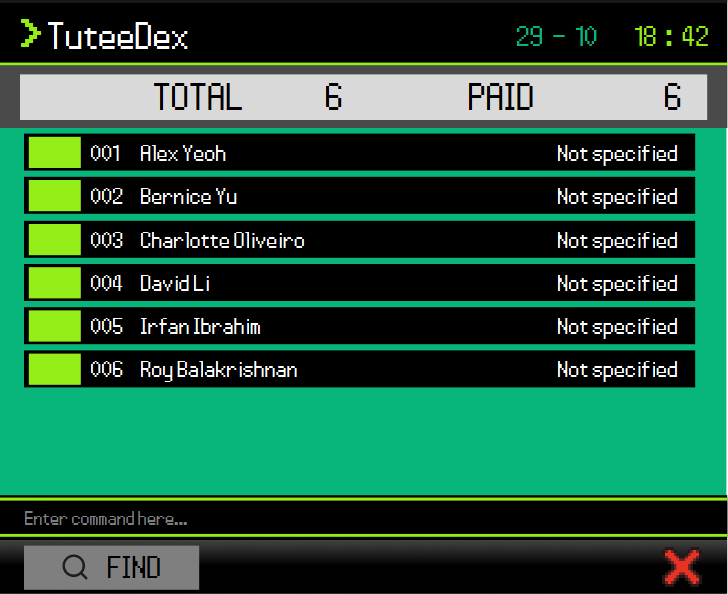
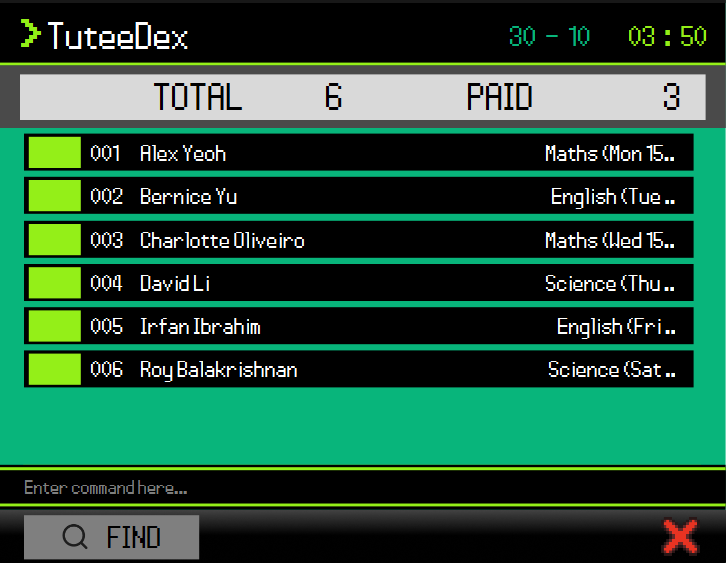
Add scheduled lessons to starter profiles
First-run profiles lacked subjects even though Add requires them,
leaving the starter screen unable to demonstrate tutoring features.

Give the samples weekly lessons, mixed balances, tags and notes.
Refresh the guide screenshot and explain legacy missing subjects.
Verify first-run rendering, serialization and existing data loading.

Fixes #195

diff --git a/src/test/java/seedu/address/ui/MainAppStartupTest.java b/src/test/java/seedu/address/ui/MainAppStartupTest.java
@@ -27,6 +27,10 @@ import javafx.scene.layout.VBox;
 import javafx.stage.Stage;
 import javafx.stage.Window;
 import seedu.address.MainApp;
+import seedu.address.model.AddressBook;
+import seedu.address.model.util.SampleDataUtil;
+import seedu.address.storage.JsonAddressBookStorage;
+import seedu.address.testutil.PersonBuilder;
 
 /** Exercises the real startup wiring without reading or writing the user's data. */
 public class MainAppStartupTest {
@@ -35,6 +39,27 @@ public class MainAppStartupTest {
 
     @Test
     public void startup_helpAndExit_useApplicationServicesAndSavePreferences() throws Exception {
+        runStartup("sample");
+    }
+
+    @Test
+    public void startup_existingEmptyBook_doesNotInjectSamples() throws Exception {
+        new JsonAddressBookStorage(testFolder.resolve("data/addressbook.json")).saveAddressBook(new AddressBook());
+        runStartup("empty");
+    }
+
+    @Test
+    public void startup_legacyBook_preservesMissingSubjectsAndFile() throws Exception {
+        AddressBook legacy = new AddressBook();
+        legacy.addPerson(new PersonBuilder().build());
+        Path file = testFolder.resolve("data/addressbook.json");
+        new JsonAddressBookStorage(file).saveAddressBook(legacy);
+        String original = Files.readString(file);
+        runStartup("legacy");
+        assertEquals(original, Files.readString(file));
+    }
+
+    private void runStartup(String scenario) throws Exception {
         List<String> command = new ArrayList<>();
         command.add(Path.of(System.getProperty("java.home"), "bin", "java").toString());
         // Append child startup coverage to the same report as the parent test worker.
@@ -45,7 +70,7 @@ public class MainAppStartupTest {
                     match -> Matcher.quoteReplacement(Path.of(match.group()).toAbsolutePath().toString())))
                 .forEach(command::add);
         command.addAll(List.of("-ea", "-cp", System.getProperty("test.runtimeClasspath",
-                System.getProperty("java.class.path")), MainAppStartupTest.class.getName()));
+                System.getProperty("java.class.path")), MainAppStartupTest.class.getName(), scenario));
         Path log = testFolder.resolve("startup.log");
         Process process = new ProcessBuilder(command).directory(testFolder.toFile())
                 .redirectErrorStream(true).redirectOutput(log.toFile()).start();
@@ -73,6 +98,34 @@ public class MainAppStartupTest {
             assertTrue(primaryStage.isShowing());
             assertEquals("TuteeDex", primaryStage.getTitle());
             TextField input = (TextField) primaryStage.getScene().lookup("#commandTextField");
+            String scenario = getParameters().getRaw().get(0);
+            if (scenario.equals("sample")) {
+                assertEquals(SampleDataUtil.getSampleAddressBook(), model.getAddressBook());
+                assertEquals("6", ((Label) primaryStage.getScene().lookup("#totalCount")).getText());
+                assertEquals("3", ((Label) primaryStage.getScene().lookup("#paidCount")).getText());
+                primaryStage.getScene().getRoot().applyCss();
+                primaryStage.getScene().getRoot().layout();
+                assertFalse(primaryStage.getScene().getRoot().lookupAll("#subjects").isEmpty());
+                assertTrue(primaryStage.getScene().getRoot().lookupAll("#subjects").stream().map(Label.class::cast)
+                        .allMatch(label -> !label.getText().equals("Not specified")));
+                input.setText("view 1");
+                input.fireEvent(new ActionEvent());
+                String details = ((Label) primaryStage.getScene().lookup("#wrappedFeedbackText")).getText();
+                assertTrue(details.contains("Maths (Mon 15:30)"));
+                assertTrue(details.contains("SGD 120.00"));
+                assertTrue(details.contains("Practise fractions"));
+                input.setText("list -subjects");
+                input.fireEvent(new ActionEvent());
+                primaryStage.getScene().getRoot().applyCss();
+                primaryStage.getScene().getRoot().layout();
+                assertEquals(3, primaryStage.getScene().getRoot().lookupAll(".subject-group-heading").size());
+                assertEquals(6, primaryStage.getScene().getRoot().lookupAll(".subject-student-row").size());
+            } else if (scenario.equals("empty")) {
+                assertTrue(model.getAddressBook().getPersonList().isEmpty());
+            } else {
+                assertEquals(1, model.getAddressBook().getPersonList().size());
+                assertTrue(model.getAddressBook().getPersonList().get(0).getSubjects().isEmpty());
+            }
             input.setText("help");
             input.fireEvent(new ActionEvent());
             Stage help = Window.getWindows().stream().filter(Stage.class::isInstance).map(Stage.class::cast)

diff --git a/src/main/java/seedu/address/model/util/SampleDataUtil.java b/src/main/java/seedu/address/model/util/SampleDataUtil.java
@@ -1,13 +1,21 @@
 package seedu.address.model.util;
 
+import java.time.DayOfWeek;
+import java.time.LocalTime;
+import java.util.Set;
+
 import seedu.address.model.AddressBook;
 import seedu.address.model.ReadOnlyAddressBook;
 import seedu.address.model.person.Address;
+import seedu.address.model.person.LessonSlot;
 import seedu.address.model.person.Name;
+import seedu.address.model.person.Notes;
 import seedu.address.model.person.OutstandingAmount;
 import seedu.address.model.person.Person;
 import seedu.address.model.person.Phone;
 import seedu.address.model.person.StartDate;
+import seedu.address.model.person.Subject;
+import seedu.address.model.tag.Tag;
 
 /**
  * Contains utility methods for populating {@code AddressBook} with sample data.
@@ -16,22 +24,29 @@ public class SampleDataUtil {
     public static Person[] getSamplePersons() {
         return new Person[] {
             new Person(new Name("Alex Yeoh"), new Phone("87438807"),
-                new Address("Blk 30 Geylang Street 29, #06-40"), new StartDate("01-Jan"), OutstandingAmount.ZERO),
+                new Address("Sample Block 1, #01-01"), new StartDate("01-Jan"), new OutstandingAmount("120"),
+                Set.of(new Tag("Secondary")), new Notes("Practise fractions before the next lesson."),
+                Set.of(new Subject("Maths", new LessonSlot(DayOfWeek.MONDAY, LocalTime.of(15, 30))))),
             new Person(new Name("Bernice Yu"), new Phone("99272758"),
-                new Address("Blk 30 Lorong 3 Serangoon Gardens, #07-18"), new StartDate("02-Feb"),
-                OutstandingAmount.ZERO),
+                new Address("Sample Block 2, #02-02"), new StartDate("02-Feb"), OutstandingAmount.ZERO,
+                Set.of(new Tag("Secondary")), new Notes("Bring the essay draft."),
+                Set.of(new Subject("English", new LessonSlot(DayOfWeek.TUESDAY, LocalTime.of(16, 0))))),
             new Person(new Name("Charlotte Oliveiro"), new Phone("93210283"),
-                new Address("Blk 11 Ang Mo Kio Street 74, #11-04"), new StartDate("03-Mar"),
-                OutstandingAmount.ZERO),
+                new Address("Sample Block 3, #03-03"), new StartDate("03-Mar"), new OutstandingAmount("80"),
+                Set.of(new Tag("Primary")), Notes.EMPTY,
+                Set.of(new Subject("Maths", new LessonSlot(DayOfWeek.WEDNESDAY, LocalTime.of(15, 0))))),
             new Person(new Name("David Li"), new Phone("91031282"),
-                new Address("Blk 436 Serangoon Gardens Street 26, #16-43"), new StartDate("04-Apr"),
-                OutstandingAmount.ZERO),
+                new Address("Sample Block 4, #04-04"), new StartDate("04-Apr"), OutstandingAmount.ZERO,
+                Set.of(new Tag("Secondary")), Notes.EMPTY,
+                Set.of(new Subject("Science", new LessonSlot(DayOfWeek.THURSDAY, LocalTime.of(17, 0))))),
             new Person(new Name("Irfan Ibrahim"), new Phone("92492021"),
-                new Address("Blk 47 Tampines Street 20, #17-35"), new StartDate("05-May"),
-                OutstandingAmount.ZERO),
+                new Address("Sample Block 5, #05-05"), new StartDate("05-May"), new OutstandingAmount("160"),
+                Set.of(new Tag("Primary")), new Notes("Review vocabulary each week."),
+                Set.of(new Subject("English", new LessonSlot(DayOfWeek.FRIDAY, LocalTime.of(16, 30))))),
             new Person(new Name("Roy Balakrishnan"), new Phone("92624417"),
-                new Address("Blk 45 Aljunied Street 85, #11-31"), new StartDate("06-Jun"),
-                OutstandingAmount.ZERO)
+                new Address("Sample Block 6, #06-06"), new StartDate("06-Jun"), OutstandingAmount.ZERO,
+                Set.of(new Tag("Secondary")), Notes.EMPTY,
+                Set.of(new Subject("Science", new LessonSlot(DayOfWeek.SATURDAY, LocalTime.of(10, 0)))))
         };
     }
 

diff --git a/src/test/java/seedu/address/storage/SampleDataStorageTest.java b/src/test/java/seedu/address/storage/SampleDataStorageTest.java
@@ -1,0 +1,38 @@
+package seedu.address.storage;
+
+import static org.junit.jupiter.api.Assertions.assertEquals;
+import static org.junit.jupiter.api.Assertions.assertFalse;
+import static org.junit.jupiter.api.Assertions.assertTrue;
+
+import java.nio.file.Path;
+
+import org.junit.jupiter.api.Test;
+import org.junit.jupiter.api.io.TempDir;
+
+import seedu.address.model.AddressBook;
+import seedu.address.model.ReadOnlyAddressBook;
+import seedu.address.model.person.OutstandingAmount;
+import seedu.address.model.util.SampleDataUtil;
+
+/** Verifies that the first-run examples retain their teaching details when saved. */
+public class SampleDataStorageTest {
+    @TempDir
+    public Path testFolder;
+
+    @Test
+    public void sampleData_saveAndReload_preservesLessonsBalancesTagsAndNotes() throws Exception {
+        ReadOnlyAddressBook sample = SampleDataUtil.getSampleAddressBook();
+        JsonAddressBookStorage storage = new JsonAddressBookStorage(testFolder.resolve("sample.json"));
+        storage.saveAddressBook(sample);
+        ReadOnlyAddressBook loaded = storage.readAddressBook().orElseThrow();
+
+        assertEquals(new AddressBook(sample), new AddressBook(loaded));
+        assertEquals(6, loaded.getPersonList().size());
+        assertTrue(loaded.getPersonList().stream().allMatch(person -> !person.getSubjects().isEmpty()));
+        assertTrue(loaded.getPersonList().stream().allMatch(person -> !person.getTags().isEmpty()));
+        assertTrue(loaded.getPersonList().stream().anyMatch(person -> !person.getNotes().value.isEmpty()));
+        assertEquals(3, loaded.getPersonList().stream()
+                .filter(person -> person.getOutstandingAmount().equals(OutstandingAmount.ZERO)).count());
+        assertFalse(loaded.getPersonList().stream().anyMatch(person -> person.isArchived()));
+    }
+}

diff --git a/docs/UserGuide.md b/docs/UserGuide.md
@@ -28,6 +28,12 @@ TuteeDex is a **desktop application for private tutors to manage student profile
    A GUI similar to the one below should appear in a few seconds. Note how the app contains some sample data.<br>
    ![Ui](images/Ui.png)
 
+   On a first launch without a data file, six fictional sample students demonstrate weekly
+   Maths, English and Science lessons, tags, notes and mixed balances (**TOTAL 6 / PAID 3**).
+   Try `view 1` for Alex's Monday 15:30 Maths lesson, note and SGD 120.00 balance, or
+   `list -subjects` to see two students in each subject group. Existing data files,
+   including empty address books, load as saved and do not receive sample students.
+
 1. Type a command in the command box and press Enter to execute it. For example, type **`help`** and press Enter to open the help window.<br>
    Some example commands you can try:
 
@@ -95,6 +101,12 @@ Format: `help`
 ### Adding a student: `add`
 
 Adds a student profile to TuteeDex.
+
+New profiles require at least one subject with a weekly lesson day and time. Older saved
+profiles may have no subjects and display `Not specified`. They remain usable as saved;
+TuteeDex does not invent schedules or add subjects to them. Use, for example,
+`edit 1 s/Maths day/MON time/15:30` to supply a real lesson schedule. Profiles without
+subjects remain in the normal list and TOTAL/PAID counts but have no entry in `list -subjects`.
 
 Format: `add n/NAME a/ADDRESS p/PHONE_NUMBER d/START_DATE s/SUBJECT day/DAY time/TIME [s/SUBJECT day/DAY time/TIME]... [o/OUTSTANDING_AMOUNT] [t/TAG]... [notes/NOTE]`
 
